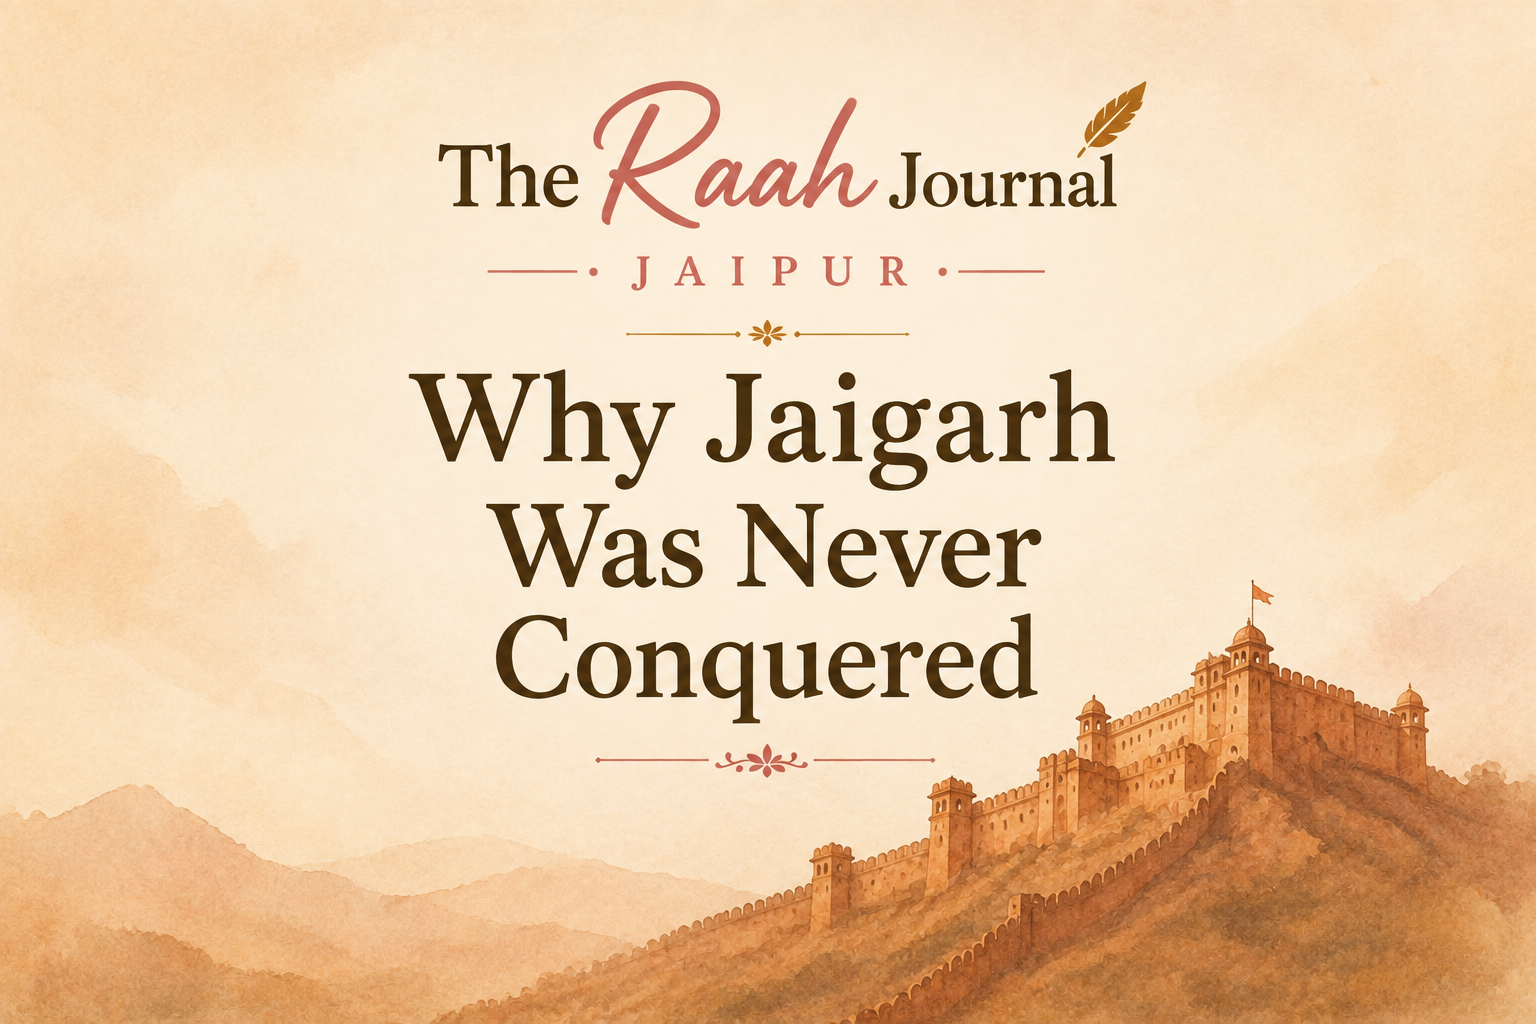
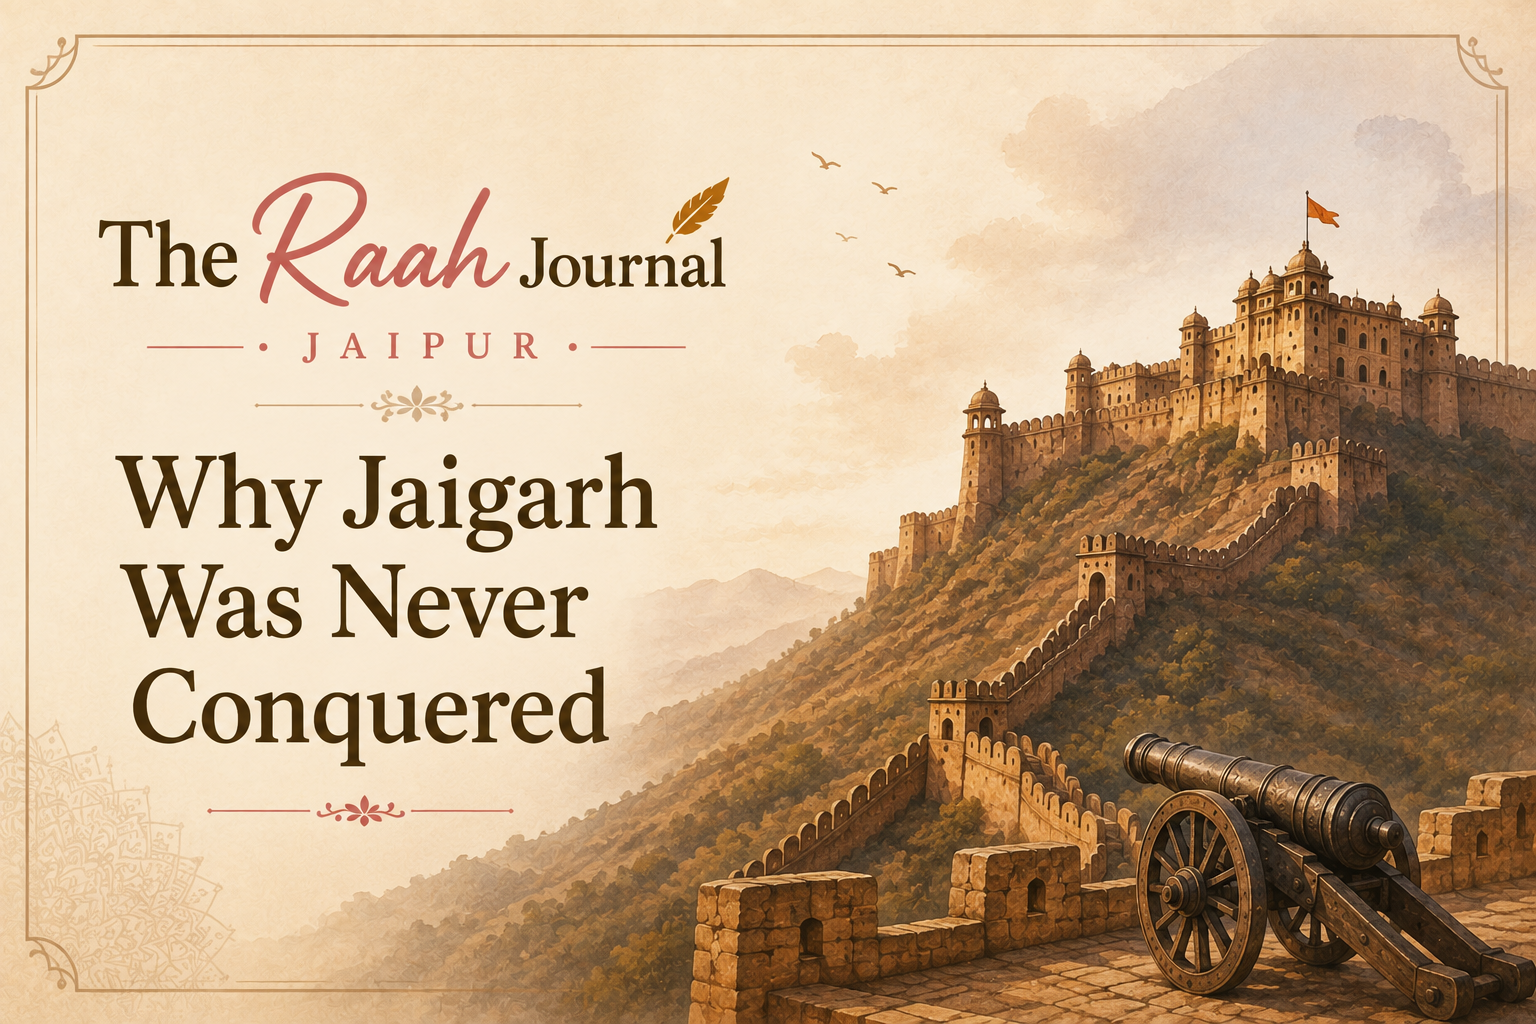
journal images change

diff --git a/src/data/experiences.js b/src/data/experiences.js
@@ -905,7 +905,7 @@ In Hindi, Raah means "a path." For me, it represents a different way of discover
     excerpt: "Long before tourists arrived to admire Amber Fort, the kingdom awoke not to the sound of cameras, but to the ringing of temple bells.",
     category: "Heritage",
     readTime: "6 min read",
-    image: "/journal Images/Amber.jpg",
+    image: "/journal Images/hidden valleys.png",
     body: `"Long before tourists arrived to admire Amber Fort, the kingdom awoke not to the sound of cameras, but to the ringing of temple bells."
 
 Most visitors leave Amber with the feeling of having seen its greatest treasure — the Amber Fort. Yet behind these magnificent forts & palace lies a different world: the world of quiet shrines, centuries-old temples, forgotten rituals, and local devotion that has continued uninterrupted for generations.
@@ -940,7 +940,7 @@ Hidden within the original 13th century palace of Amber stands the temple of Nar
     excerpt: "Most people believe Jaipur was built simply because Amber had become overcrowded. The true story is far more extraordinary.",
     category: "History",
     readTime: "5 min read",
-    image: "/journal Images/jaipur.jpg",
+    image: "/journal Images/why jaipur built.png",
     body: `A City Born from the Vision of a King Who Looked Beyond His Time.
 
 Most people believe Jaipur was built simply because Amber had become overcrowded or faced a growing shortage of water. While these challenges certainly influenced the decision, they tell only part of the story.
@@ -965,7 +965,7 @@ Jaipur was never built simply to replace Amber. It was built to realise the visi
     excerpt: "Crowning the hills above Amber Fort, Jaigarh isn't remembered for the battles it fought — but for the battles it never lost.",
     category: "Heritage",
     readTime: "5 min read",
-    image: "/journal Images/jaigarh.jpg",
+    image: "/journal Images/why jaigarh.png",
     body: `Crowning the rugged Aravalli Hills, the fortress was designed to be practically impregnable. Its strategic position allowed soldiers to spot approaching armies long before they reached the gates, while the surrounding hills formed a natural ring of defence.
 
 Yet Jaigarh's greatest strength lay within its walls. Decades before sustainable construction entered mainstream thinking, the fortress was engineered to withstand lengthy sieges. An ingenious network of aqueducts, filtration tanks, and massive rainwater reservoirs ensured a dependable water supply throughout the year. Many reservoirs were even covered to prevent evaporation under Rajasthan's scorching sun, allowing the fort to remain self-sufficient for prolonged periods.
@@ -982,7 +982,7 @@ Perhaps that is why Jaigarh was never conquered. It wasn't simply protected by t
     excerpt: "In Hinduism, the cow is highly revered and associated with a mother and the gods. It is strongly believed that all gods reside within the body of a cow.",
     category: "Culture",
     readTime: "4 min read",
-    image: "/journal Images/cow.jpg",
+    image: "/journal Images/cow.png",
     body: `In Hinduism, the cow is highly revered and associated with a mother and the gods. It is strongly believed that all gods reside within the body of a cow. Hence, it is the responsibility of every Hindu to accord her respect — and everyone abides by this. For most religious ceremonies, the cow is essential.
 
 As per ancient texts, cows are pure and auspicious animals. Looking after a cow and doing all the daily chores for her — like bathing, feeding, and providing water — are considered commendable acts. In fact, cow dung and urine are said to have medicinal properties. Whosoever offers a morsel of food to a cow before having a meal is said to attain salvation. With respect to this, every Hindu household prepares at least two chapatis to offer to a cow before any meal.
@@ -1005,7 +1005,7 @@ Hence, the cow — known as Gau-Mata — holds a revered position in Hinduism, s
     excerpt: "If anyone would ask me which is the best time to experience Jaipur, I would certainly mention: at Dawn, before anyone wakes up.",
     category: "Dawn Jaipur",
     readTime: "4 min read",
-    image: "/journal Images/sunrise.jpg",
+    image: "/journal Images/sunset.png",
     body: `Jaipur At Dawn: A City That Awakens in Gold
 
 If anyone would ask me which is the best time to experience Jaipur, I would certainly mention: at Dawn, before anyone wakes up. Jaipur before sunrise belongs to a different world — it seems to be peaceful, slow-paced, and even more beautiful than at its usual hours.
@@ -1026,7 +1026,7 @@ Hence, if you ever come to Jaipur, do not forget to explore it in its golden hou
     excerpt: "Leading a tour through Jaipur is always joyful, but there are few unplanned conversations that stay with me forever.",
     category: "From the Curator",
     readTime: "5 min read",
-    image: "/with guests/IMG20241225114250.jpg",
+    image: "/journal Images/few conversation.png",
     body: `Leading a tour through Jaipur is always joyful — full of stories, laughter, and memorable moments that we both cherish at the end of the tour. But there are a few conversations that stay with me forever, ones I still think of. Those conversations were never planned — yet they happened in fleeting moments, leaving a lasting imprint on my heart.
 
 **The Voices of Wonder**
